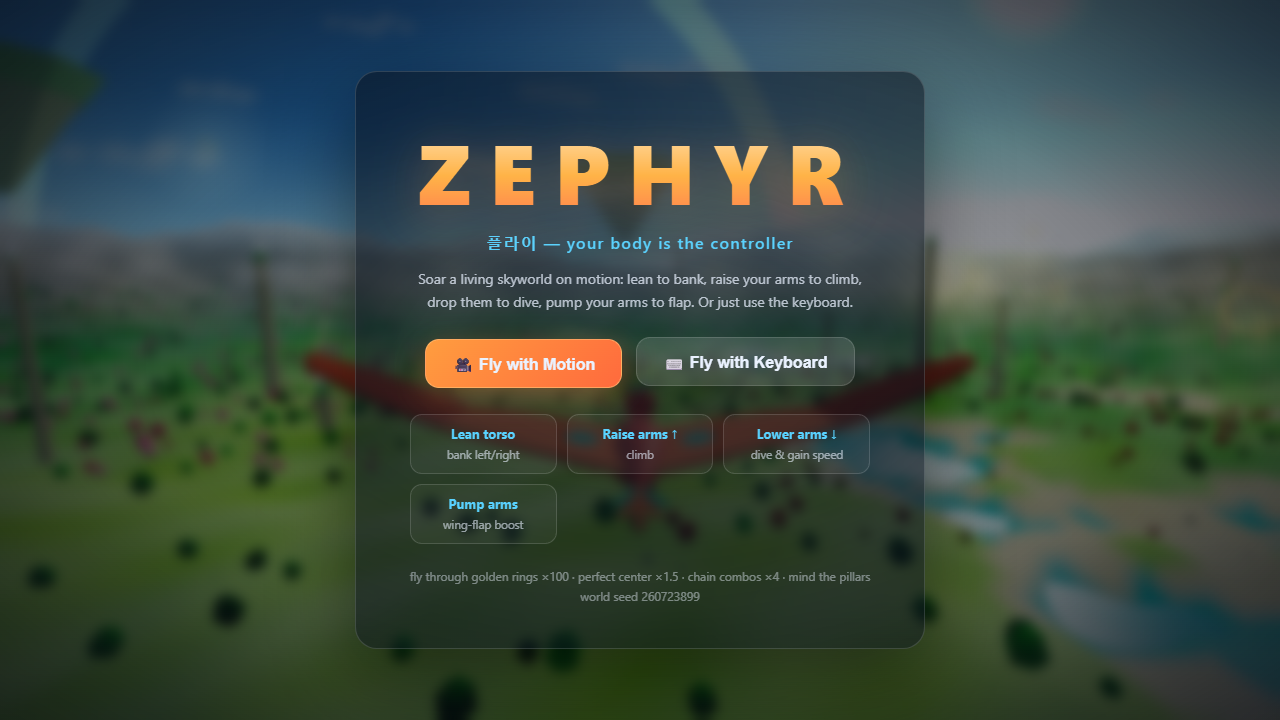
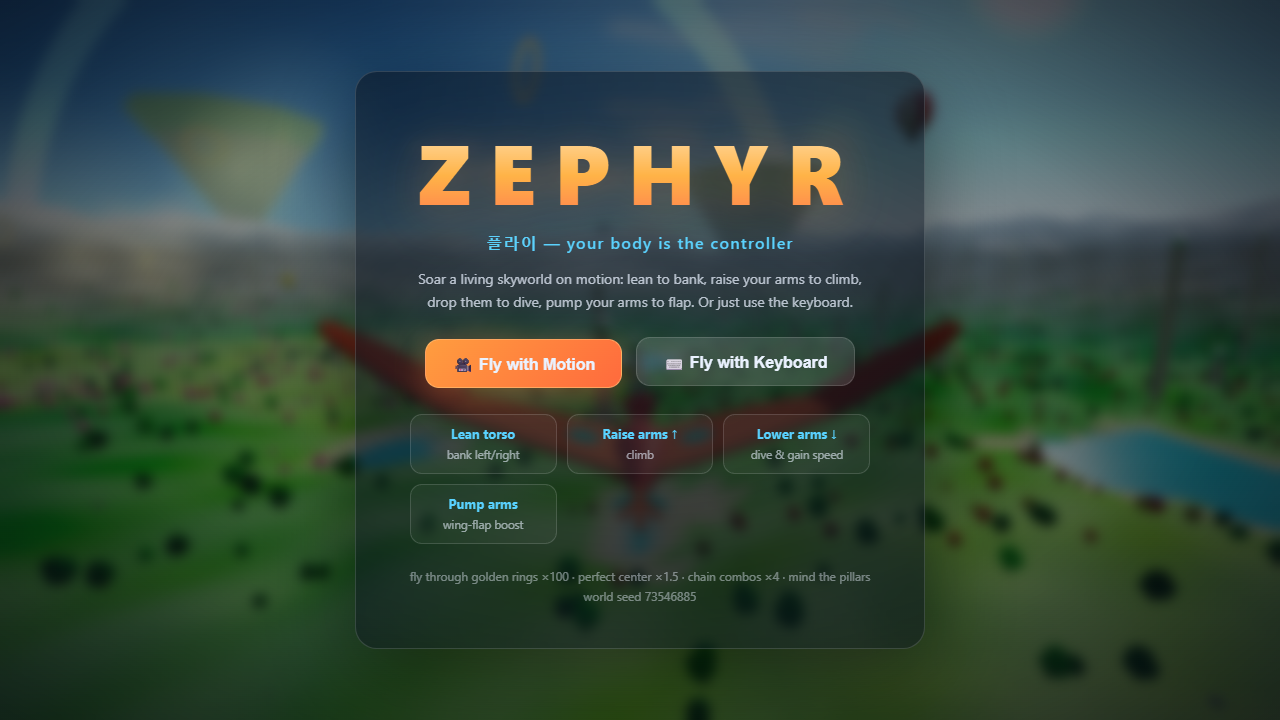
Fix bank/turn visual mismatch: negate rendered roll, YXZ euler order
Physics roll sign means 'banking right' (right wing dips, turn curves right),
but rotating the bird +Z about its forward axis lifts the right wing — a LEFT
bank pose. Render with -roll so the body banks INTO every turn; camera horizon
tilt matches. Also set YXZ euler order (yaw-pitch-roll) so combined pitch+yaw
attitudes compose like an aircraft.

diff --git a/src/render/bird.js b/src/render/bird.js
@@ -225,7 +225,11 @@ export function buildBird(scene) {
 
 export function animateBird(bird, flight, flapPower, tSec) {
   bird.group.position.set(flight.pos[0], flight.pos[1], flight.pos[2]);
-  bird.group.rotation.set(flight.pitch, flight.heading, flight.roll);
+  // Aircraft convention: yaw → pitch → roll. Roll sign is NEGATED because a
+  // right turn (positive roll in our physics) must dip the RIGHT wing —
+  // rotating +Z lifts +X (right wing UP), which is a left bank.
+  bird.group.rotation.order = 'YXZ';
+  bird.group.rotation.set(flight.pitch, flight.heading, -flight.roll);
 
   const gliding = flapPower < 0.02;
   const f = 3.2 + flapPower * 13;

diff --git a/src/main.js b/src/main.js
@@ -383,7 +383,8 @@ class Game {
       this.flight.pos[2] + f[2] * 18,
     );
     this.camera.lookAt(look);
-    this.camera.rotation.z += this.flight.roll * 0.28; // bank the horizon
+    // tilt the horizon WITH the turn (negated roll, matching the bird's body)
+    this.camera.rotation.z -= this.flight.roll * 0.28;
 
     const fov = 64 + speedK * 12;
     if (Math.abs(this.camera.fov - fov) > 0.2) {
